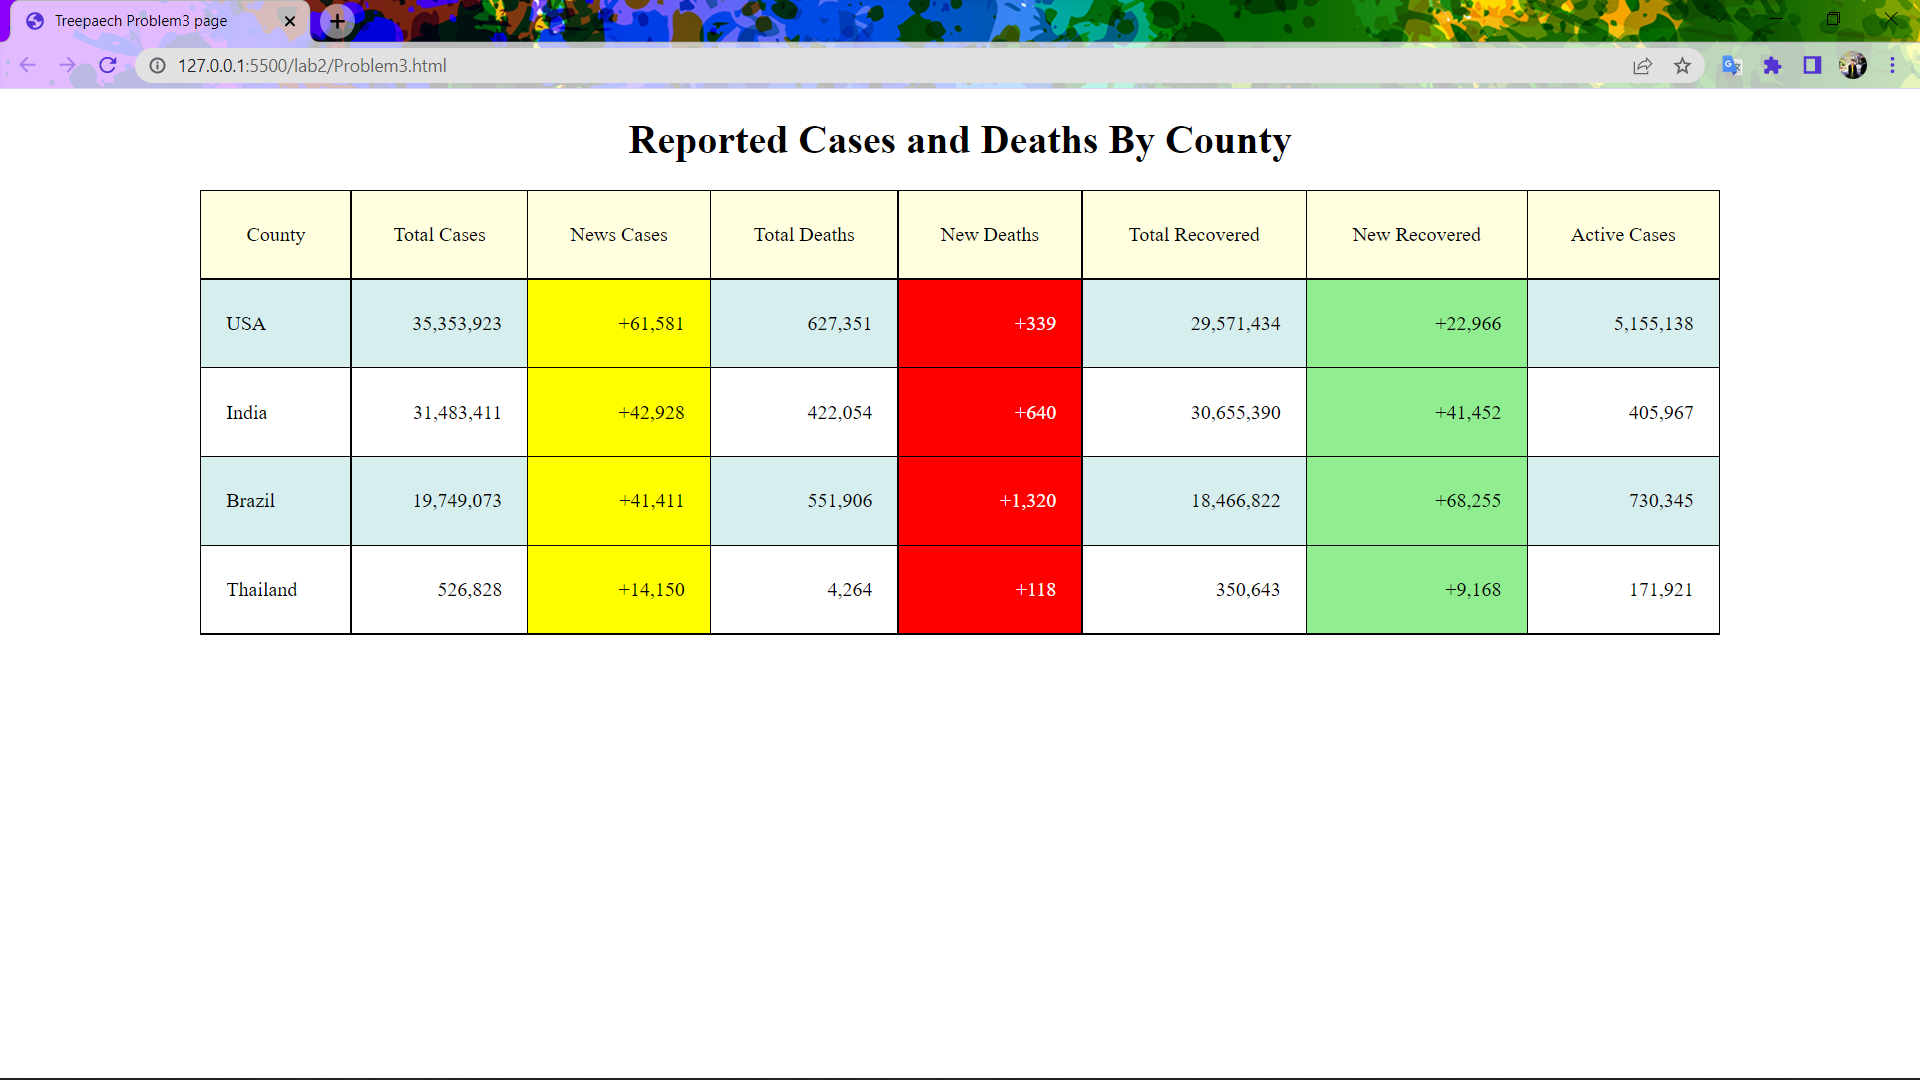
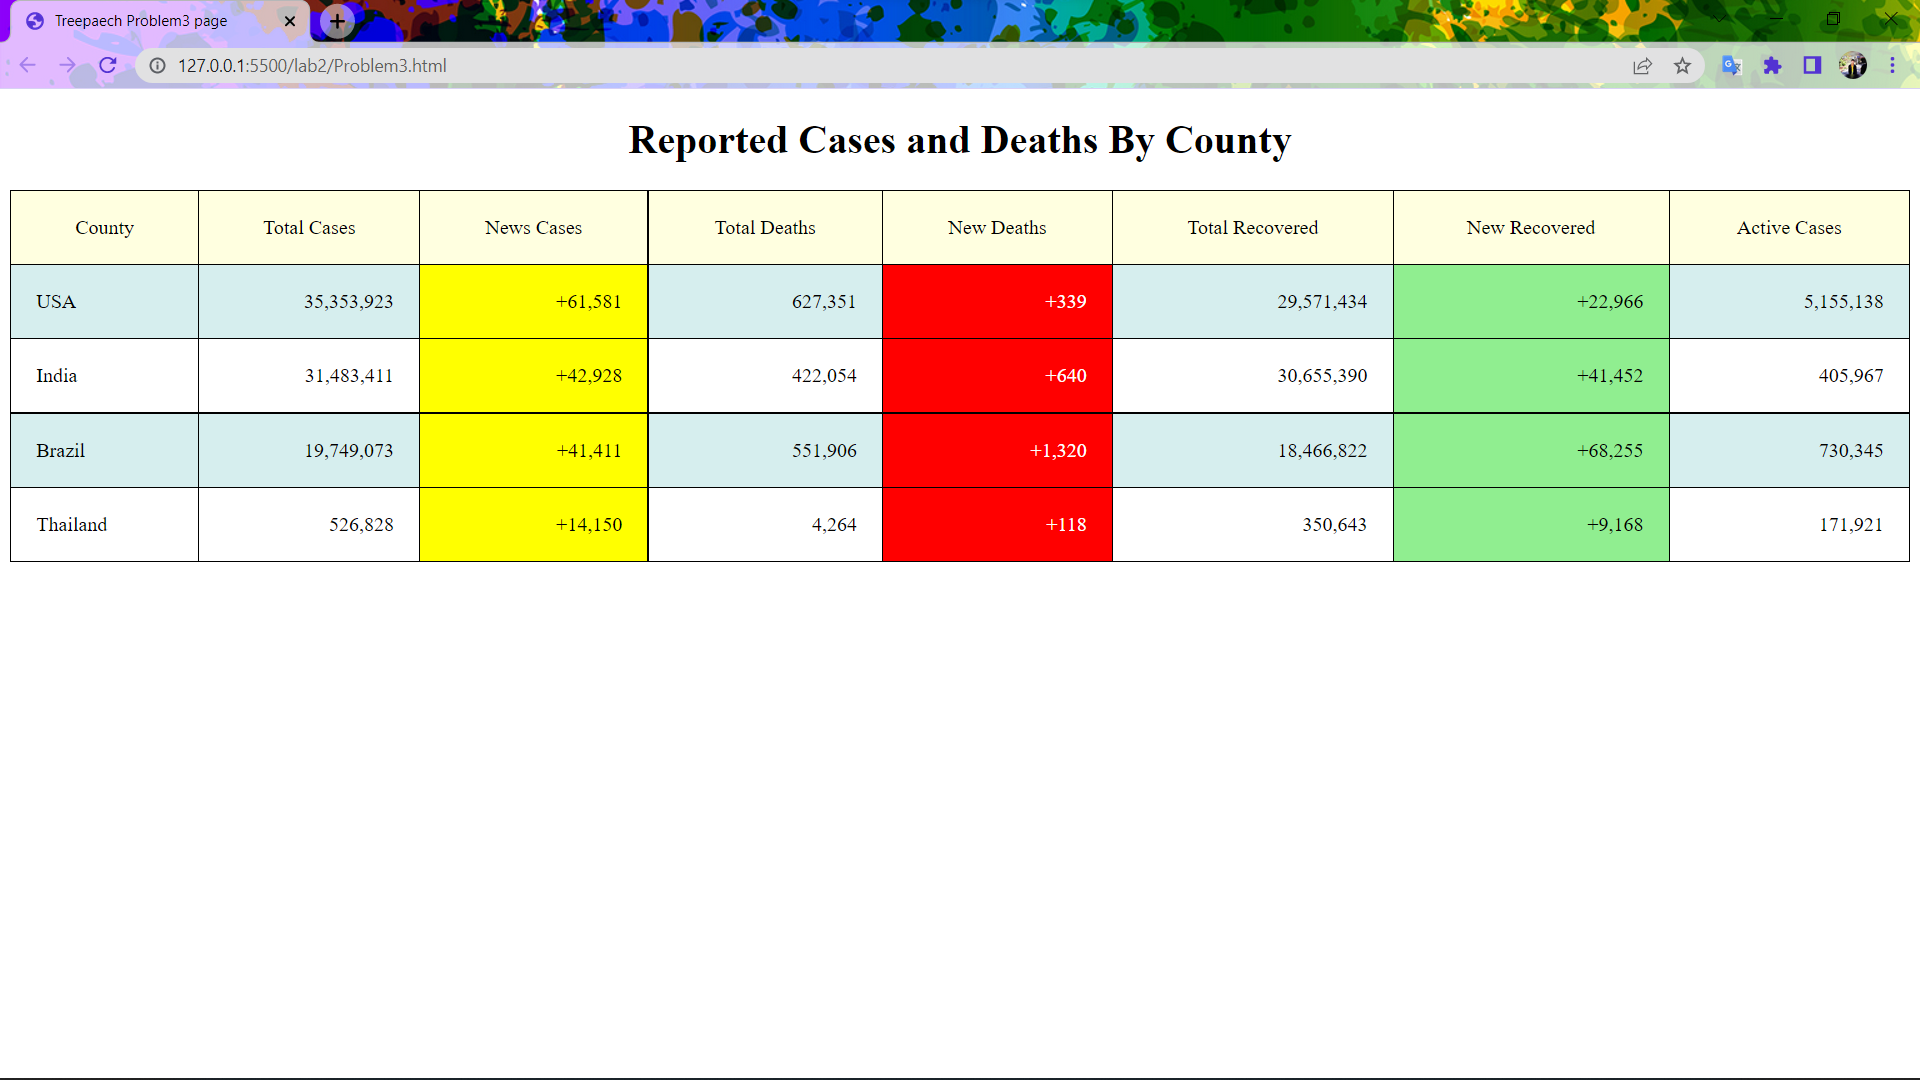
add lab2

diff --git a/lab2/Problem3.html b/lab2/Problem3.html
@@ -7,7 +7,6 @@
             table, tr, td{
                 border: 1px solid black;
                 border-collapse: collapse;
-                height: 30px;
                 padding: 20px;
             }
             h1{
@@ -30,7 +29,7 @@
     </head>
     <body>
         <h1>Reported Cases and Deaths By County</h1>
-       <center><table style="width: 80%;">
+       <center><table style="width: 100%;">
             <tr style="text-align: center; background-color: lightyellow;">
                 <td>County</td>
                 <td>Total Cases</td>
